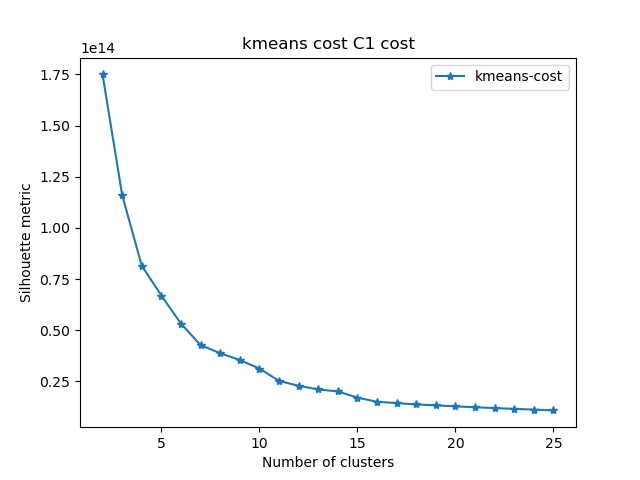
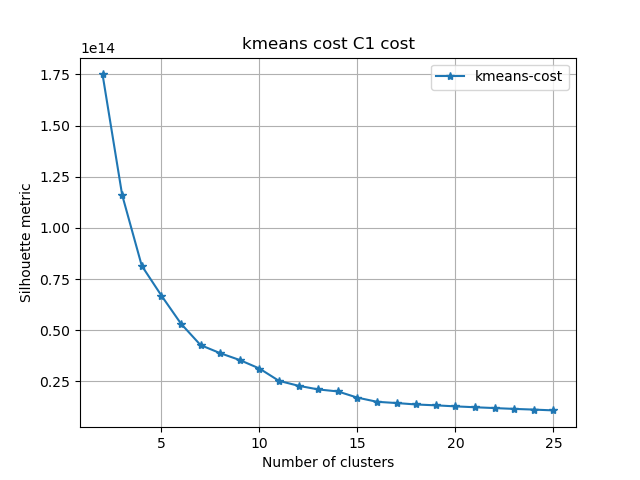
plotting with grids

diff --git a/src/main/python/plotting.py b/src/main/python/plotting.py
@@ -6,12 +6,14 @@ import os
 def plot_elbow(path: str):
     frame: pd.DataFrame = pd.read_csv(f"{path}/{next(filter(lambda item: item.endswith('.csv'), os.listdir(path)))}")
     os.makedirs(f"plots/{path[: path.find('/')]}", exist_ok=True)
+    plt.grid(True)
     plt.plot(frame.numClusters, frame.value, '-*', label='kmeans-cost')
     plt.title(f"{path[path.find('/') + 1:].replace('_', ' ')} cost")
     plt.xlabel('Number of clusters')
     plt.ylabel('Silhouette metric')
     plt.legend()
     plt.savefig(f'plots/{path}.png')
+    plt.clf()
 
 
 if __name__ == '__main__':
